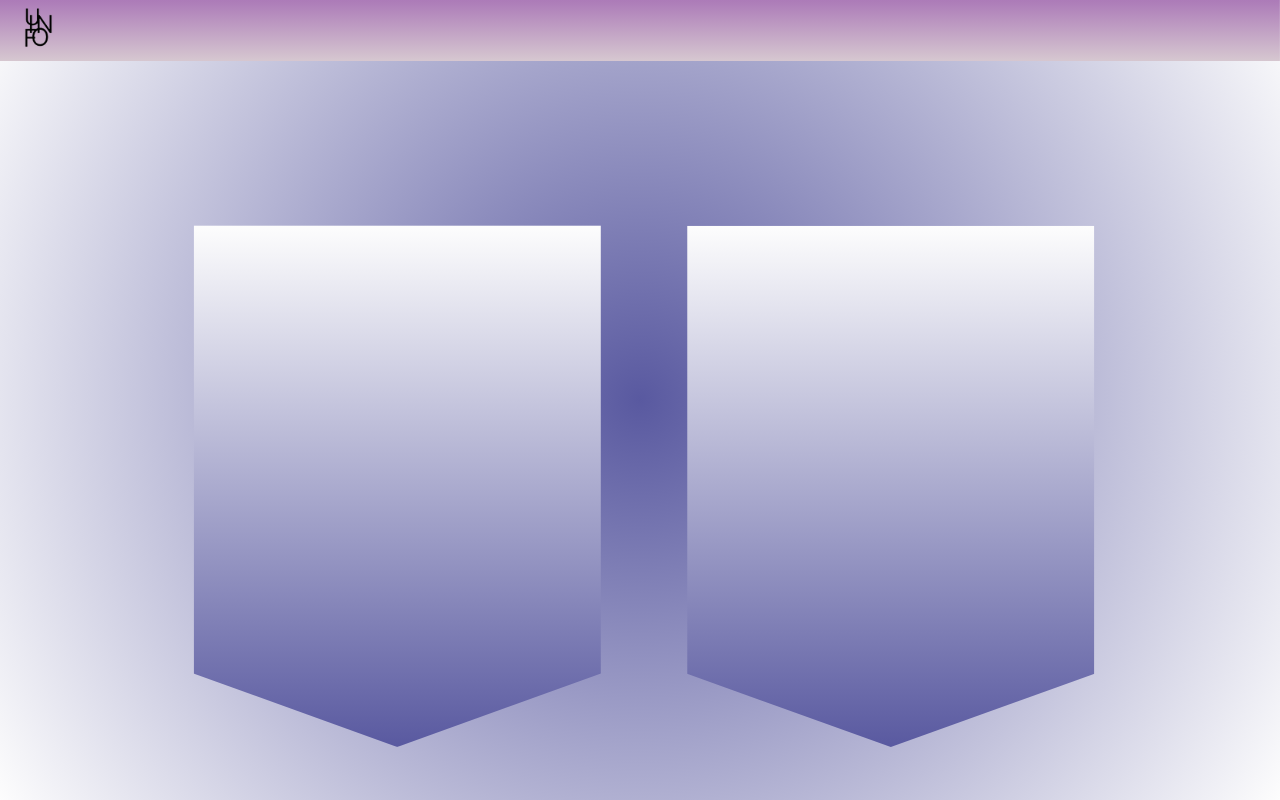
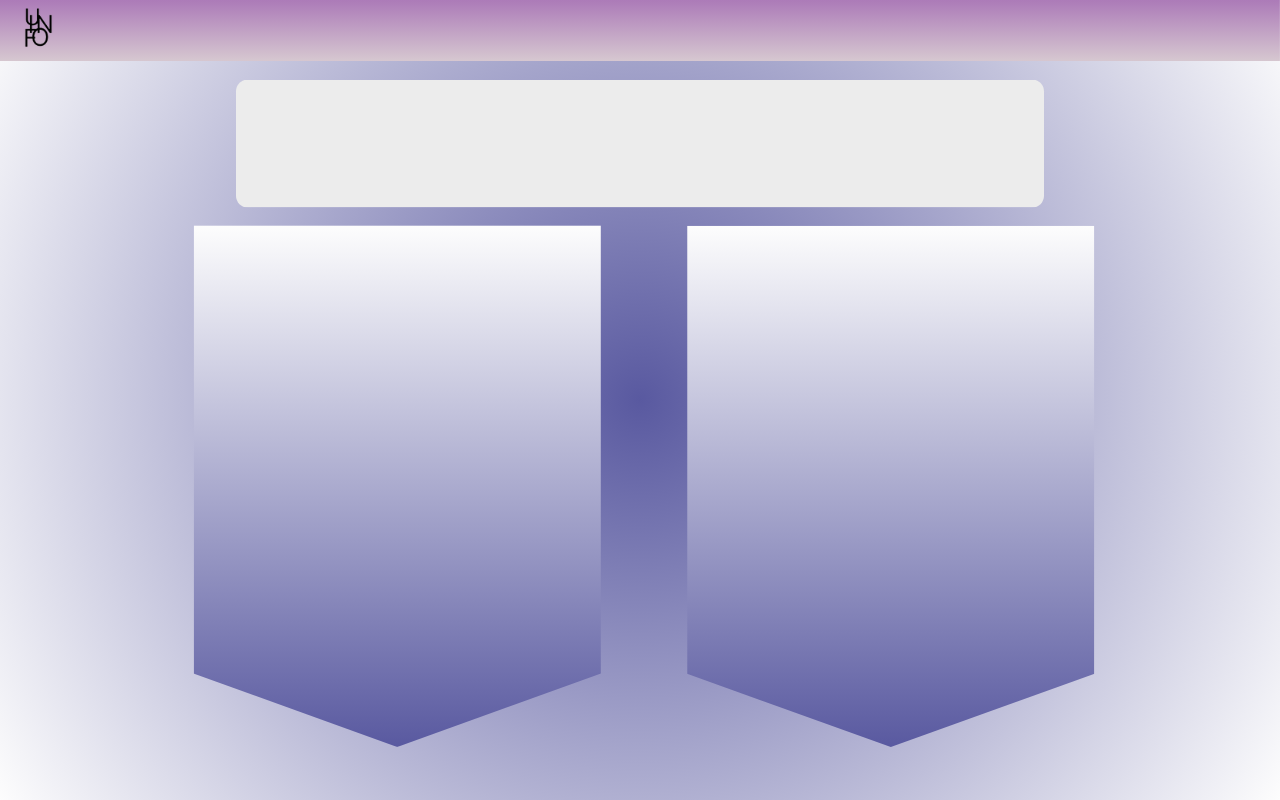
feat: menambahkan scene untuk ptn bh

Changed region(s): [[0.1875, 0.0938, 0.8125, 0.2812]]

diff --git a/TestUinfoApp/app/src/main/resources/Style/styles.css b/TestUinfoApp/app/src/main/resources/Style/styles.css
@@ -255,15 +255,22 @@
 }
 .text-aboutptnbh1 {
     -fx-font-family: 'Intro Rust';
-    -fx-font-size: 15;
+    -fx-font-size: 20;
     -fx-font-weight:BOLD;
     -fx-text-fill: #f0f5f3;
     -fx-effect: dropshadow(gaussian, #C738BD, 6, 0, 0, 0);
 }
 .text-aboutptnbh2 {
     -fx-font-family: 'Intro Rust';
+    -fx-font-size: 15;
+    -fx-font-weight:normal;
+    -fx-text-fill: #ffffff;
+    -fx-effect: dropshadow(gaussian, #C738BD, 6, 0, 0, 0);
+}
+.text-aboutptnbh3 {
+    -fx-font-family: 'Intro Rust';
     -fx-font-size: 10;
     -fx-font-weight:normal;
-    -fx-text-fill: #C738BD;
-    /* -fx-effect: dropshadow(gaussian, #C738BD, 6, 0, 0, 0); */
+    -fx-text-fill: #000000;
+    -fx-effect: dropshadow(gaussian, #ffffff, 3, 1, 0, 0);
 }

diff --git a/TestUinfoApp/app/src/main/java/UINFO/Pages/PTN_BH.java b/TestUinfoApp/app/src/main/java/UINFO/Pages/PTN_BH.java
@@ -25,11 +25,14 @@ public class PTN_BH {
 
     public void show(){
         Label ptnBh = new Label("PTN-BH");
-        ptnBh.getStyleClass().add("text-aboutptnbh1");
-        Text text = new Text("PTN-BH");
-        text.getStyleClass().add("PTN-BH");
+        ptnBh.getStyleClass().add("label-ptnbhstatushl");
+        // Text text = new Text("PTN-BH"); //yg ditengah
+        // text.getStyleClass().add("text-aboutptnbh1"); //bold
         Text text2 =  new Text("Perguruan Tinggi Berbadan Hukum");
         text2.getStyleClass().add("text-aboutptnbh2");
+        Text text3 = new Text("PTN BH adalah perguruan tinggi negeri yang didirikan oleh pemerintah dengan status\nberbadan hukum yang otonom. Yang artinya perguruan tinggi negeri tersebut\noleh pemerintah melalui Kemendikbud sudah diberi hak otonom agar lebih mandiri.");
+        text3.getStyleClass().add("text-abaoutptnbh3");
+
 
         Button backButton = new Button("Kembali");
         backButton.getStyleClass().add("button-backbutton");
@@ -39,7 +42,7 @@ public class PTN_BH {
                 ptnScene.show();
             });
         
-        Image backgroundImage = new Image(getClass().getResourceAsStream("/Images/newptnStatusbg.png"));
+        Image backgroundImage = new Image(getClass().getResourceAsStream("/Images/newptnstatusbg.png"));
 
         BackgroundImage backgroundImg = new BackgroundImage(backgroundImage,
             BackgroundRepeat.NO_REPEAT, BackgroundRepeat.NO_REPEAT, null,
@@ -47,11 +50,12 @@ public class PTN_BH {
 
         StackPane stackPane = new StackPane();
         StackPane.setMargin(ptnBh, new Insets(20,595,480,20));
-        StackPane.setMargin(text, new Insets(50,90,100,200));
-        StackPane.setMargin(text2, new Insets(80,170,50,30));
+        // StackPane.setMargin(text, new Insets(52,350,437,350));
+        StackPane.setMargin(text2, new Insets(58,350,435,350));
+        StackPane.setMargin(text3, new Insets(63,350,363,350));
         StackPane.setMargin(backButton, new Insets(430, 350, 15, 350));
         stackPane.setBackground(new Background(backgroundImg));
-        stackPane.getChildren().addAll(ptnBh,text,text2,backButton);
+        stackPane.getChildren().addAll(ptnBh,text2,text3,backButton);
         Scene scene = new Scene(stackPane, 800, 500);
         scene.getStylesheets().add(getClass().getResource("/Style/styles.css").toExternalForm());
         stage.setScene(scene);
